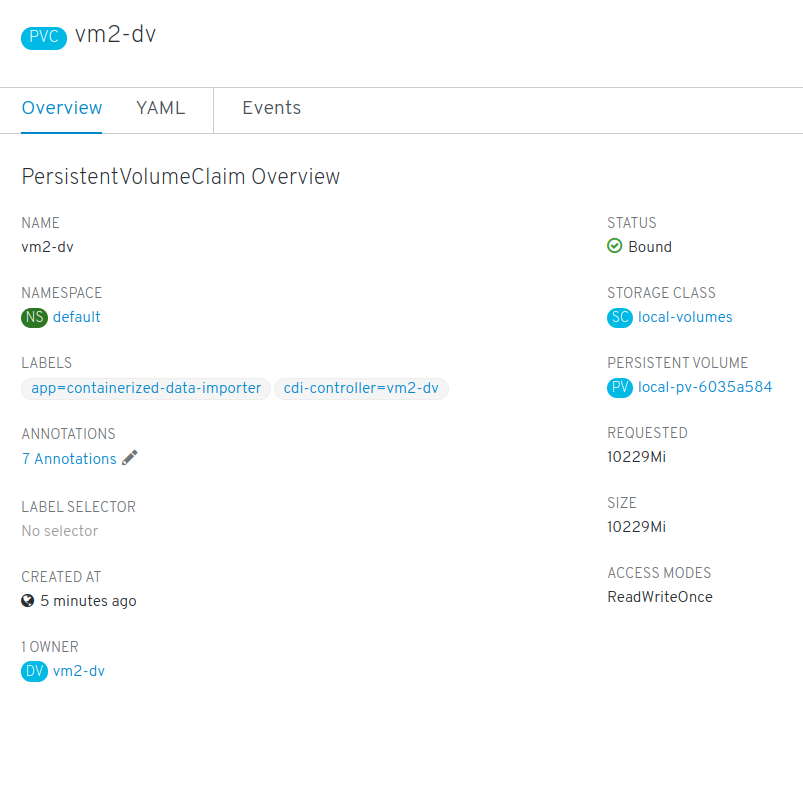
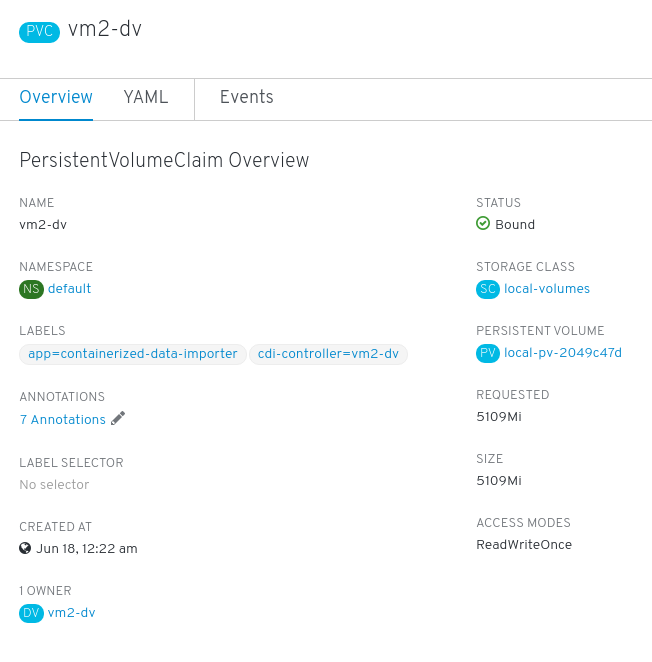
Continuing the review of labs
Minor grammar changes, header arrangement and example updates.

diff --git a/labs/lab5/lab5.md b/labs/lab5/lab5.md
@@ -1,21 +1,19 @@
-# Lab 5
+# Lab 5: Deploy a VM using a DataVolume
 
-## Deploy a VM using a DataVolume
-
-Explore the VM manifests, notice it uses a [DataVolume](https://kubevirt.io/user-guide/docs/latest/creating-virtual-machines/disks-and-volumes.html#datavolume)
+There is another VM definition that uses a [DataVolume](https://kubevirt.io/user-guide/docs/latest/creating-virtual-machines/disks-and-volumes.html#datavolume) instead of a ContainerDisk:
 
 ```console
 $ view ~/student-materials/vm_datavolume.yml
 ```
 
-Now let's start this VM and we'll observe the image importing process before the VMI is created:
+Now let's create this VM and we'll observe the image importing process before the VMI is created. **Note:** the image import is relatively fast and the importer pod terminates quickly, so be ready to watch the logs shortly after the VM creation or you will miss the opportunity:
 
 ```console
 $ cd ~/student-materials/
 $ kubectl create -f vm_datavolume.yaml
 virtualmachine.kubevirt.io/vm2 created
 
-$kubectl get pods | grep importer
+$ kubectl get pods | grep importer
 importer-vm2-dv-sgch7
 
 $ kubectl logs -f importer-vm2-dv-sgch7
@@ -38,7 +36,7 @@ I0517 14:44:04.317260       1 data-processor.go:230] Expanding image size to: 10
 I0517 14:44:04.373807       1 data-processor.go:167] New phase: Complete
 ```
 
-Again, we can connect to the VM's serial console and check if we've got that extra space that CDI made for us:
+Once the VM has started we can again connect to its serial console and check if we have the extra space that the Containerized Data Importer (CDI) made for us:
 
 ```console
 $ virtctl console vm2
@@ -46,7 +44,7 @@ Successfully connected to vm2 console. The escape sequence is ^]
 
 login as 'cirros' user. default password: 'gocubsgo'. use 'sudo' for root.
 cirros login: cirros
-Password:
+Password: gocubsgo
 $ df -h /
 Filesystem                Size      Used Available Use% Mounted on
 /dev/vda1                 4.8G     24.1M      4.6G   1% /
@@ -91,14 +89,15 @@ Status:
   Phase:     Succeeded
   Progress:  100.0%
 Events:
-  Type     Reason            Age                  From                   Message
-  ----     ------            ----                 ----                   -------
-  Normal   ImportScheduled   19m                  datavolume-controller  Import into vm2-dv scheduled
-  Normal   ImportInProgress  18m (x2 over 19m)    datavolume-controller  Import into vm2-dv in progress
-  Normal   Synced            8m3s (x24 over 19m)  datavolume-controller  DataVolume synced successfully
+  Type    Reason            Age                     From                   Message
+  ----    ------            ----                    ----                   -------
+  Normal  ImportScheduled   3m55s                   datavolume-controller  Import into vm2-dv scheduled
+  Normal  ImportInProgress  3m38s                   datavolume-controller  Import into vm2-dv in progress
+  Normal  Synced            3m13s (x16 over 3m55s)  datavolume-controller  DataVolume synced successfully
+  Normal  ImportSucceeded   3m13s                   datavolume-controller  Successfully imported into PVC vm2-dv
 ```
 
-The associated PVC has the same name, *vm2-dv*, let's describe it as well, it contains some interesting data:
+The associated Persistent Volume Claim (PVC) has the same name as the DataVolume, *vm2-dv*. Let's describe it as well, it contains some interesting data:
 
 ```console
 $ kubectl describe pvc vm2-dv
@@ -127,16 +126,16 @@ Events:
 Mounted By:  virt-launcher-vm2-92pm2
 ```
 
-Pay special attention to the *Annotations* section where CDI introduces interesting data like the endpoint where the image was imported from, the phase and pod name.
+Pay special attention to the *Annotations* section where CDI adds interesting metadata like the endpoint where the image was imported from, the phase and pod name.
 
 ## Recap
 
-* We've created a second VM, *vm2*, this one included a *DataVolume* template which instructs KubeVirt and CDI to:
-  * Create a PVC which uses a PV already created on the cluster
-  * The CDI importer pod, takes the source, in this case a URL, and imports the image directly to the PV attached to the PVC
-  * Once that process finishes, a *virt-launcher* pod starts using the same PVC, with the imported image, as boot disk
-* A detail that might go unnoticed, CDI is able to detect the requested storage size, the available space (accounting for file system overhead) and resize the image accordingly
-* We've connected to *vm2's* serial console and verified the root partition was expanded to the disk size, this is usually done through configuration services like *cloud-init*
+* We created a second VM, *vm2*. This one included a *DataVolume* template which instructs KubeVirt and CDI to:
+  * Create a PVC which uses a PV already created on the cluster.
+  * The CDI importer pod to take the source, in this case a URL, and import the image directly to the PV attached to the PVC.
+  * Once that process finishes, a *virt-launcher* pod starts using the same PVC, with the imported image, as its boot disk.
+* A detail that might go unnoticed: CDI is able to detect the requested storage size, the available space (accounting for file system overhead) and resize the image accordingly.
+* We connected to *vm2's* serial console and verified that the root partition was expanded to fill the underlying disk size. This is usually done through configuration services like *cloud-init*.
 
 This concludes this section of the lab, spend some time checking out all the objects and how they relate to each other, then head off to the next lab!
 

diff --git a/labs/lab4/lab4.md b/labs/lab4/lab4.md
@@ -1,8 +1,6 @@
-# Lab 4
+# Lab 4: Deploy your first Virtual Machine
 
-## Deploy our first Virtual Machine
-
-To start with, we'll be deploying a VM that uses a [ContainerDisk](https://kubevirt.io/user-guide/docs/latest/creating-virtual-machines/disks-and-volumes.html#containerdisk). It won't use any of the available PVs, ContainerDisk based VMs are ephemeral.
+We will deploy a VM that uses a [ContainerDisk](https://kubevirt.io/user-guide/docs/latest/creating-virtual-machines/disks-and-volumes.html#containerdisk). Therefore, the VM will not use any of the available Persistent Volumes (PVs), as ContainerDisk based storage is ephemeral.
 
 ```console
 $ cd ~/student-materials
@@ -11,7 +9,7 @@ $ kubectl create -f vm_containerdisk.yml
 virtualmachine.kubevirt.io/vm1 created
 ```
 
-Check for the VM we just created:
+Check the VM that we just created:
 
 ```console
 $ kubectl get vm vm1
@@ -19,7 +17,7 @@ NAME   AGE   RUNNING   VOLUME
 vm1    24s   false
 ```
 
-Notice it's not running, in the YAML definition we can find the following block:
+Notice it's not running. This is because in its YAML definition we can find the following:
 
 ```yaml
 ...
@@ -28,7 +26,9 @@ spec:
 ...
 ```
 
-The *VirtualMachine* object is the definition of our VM, but it's not instantiated, let's do so with *virtctl* as follows:
+## Start the Virtual Machine
+
+The *VirtualMachine* object is the definition of our VM, but a running VM is represented by a *VirtualMachineInstance*. Our VM is not instantiated yet, let's do so using *virtctl* as follows:
 
 ```console
 $ virtctl start vm1
@@ -55,7 +55,7 @@ vm1    19m   true
 
 $ kubectl get vmi vm1
 NAME   AGE     PHASE     IP            NODENAME
-vm1    3m49s   Running   10.244.0.22   sjr-kubemaster.deshome.net
+vm1    3m49s   Running   10.244.0.22   kubevirtlab-2
 ```
 
 Using *virtctl* we can connect to the VMI's console as follows:
@@ -70,13 +70,13 @@ Kernel 4.18.16-300.fc29.x86_64 on an x86_64 (ttyS0)
 vm1 login: fedora
 Password: fedora
 
-[fedora@vm1 ~]$ ping -c 1 google.com
-PING google.com (172.217.16.238) 56(84) bytes of data.
-64 bytes from mad08s04-in-f14.1e100.net (172.217.16.238): icmp_seq=1 ttl=54 time=22.1 ms
+[fedora@vm1 ~]$ ping -c 1 kubevirt.io
+PING kubevirt.io (185.199.111.153) 56(84) bytes of data.
+64 bytes from 185.199.111.153 (185.199.111.153): icmp_seq=1 ttl=54 time=5.30 ms
 
---- google.com ping statistics ---
+--- kubevirt.io ping statistics ---
 1 packets transmitted, 1 received, 0% packet loss, time 0ms
-rtt min/avg/max/mdev = 22.098/22.098/22.098/0.000 ms
+rtt min/avg/max/mdev = 5.303/5.303/5.303/0.000 ms
 [fedora@vm1 ~]$ exit
 
 Fedora 29 (Cloud Edition)
@@ -84,17 +84,23 @@ Kernel 4.18.16-300.fc29.x86_64 on an x86_64 (ttyS0)
 
 vm1 login:
 ```
-There is also a graphical console for connecting to the VMs, using the *vnc* subcommand instead of *console*. Note that it requires you to have *remote-viewer* installed and it's out of the scope of this lab.
-
 
 **NOTE**: To exit the console press *Ctrl+]*
 
+There is also a graphical console to connect to the VMs, using *virtctl vnc* instead of *virtctl console*. This requires you to have a VNC client like *remote-viewer* installed on your system. In this lab we are executing *virtctl* remotely on the lab instance, and therefore we can't use this option. Instead, we will access a VM's graphical console in a later lab through the web UI.
+
+### Exercise
+
+Can you operate on the VM and VMI objects using standard *kubectl* commands without relying on *virtctl*?
+
+In particular, can you start or stop a VM without *virtctl*?
+
 ## Recap
 
-* We've defined a *VirtualMachine* object on the cluster which didn't actually instantiate the *vm1*
-* We've started the *vm1* using *virtctl*, which instantiated it creating the *VirtualMachineInstance* object
+* We defined a *VirtualMachine* object on the cluster. This didn't actually instantiate the *vm1* VM.
+* We started the *vm1* using *virtctl*, which instantiated it creating the *VirtualMachineInstance* object
   * *kubectl patch* could have also been used to start *vm1*
-* Finally, we've connected to the *vm1's* serial console using *virtctl*
+* Finally, we connected to the *vm1's* serial console using *virtctl*
 
 
 This concludes this section of the lab, before heading off to the next lab, spend some time describing and exploring the objects this lab created on the cluster.

diff --git a/labs/lab6/lab6.md b/labs/lab6/lab6.md
@@ -1,10 +1,8 @@
-# Lab 6
+# Lab 6: Install and explore the KubeVirt Web UI
 
-## Install and explore the KubeVirt Web UI
+## Install the KubeVirt Web UI
 
-### Installing the KubeVirt Web UI
-
-In this lab we're going to deploy KubeVirt's web UI, which eases the VM management.
+In this lab we are going to deploy KubeVirt's web UI, which eases the management of VMs.
 
 ```console
 $ cd ~/kubevirt/kubevirt-ui-custom-manifests
@@ -28,9 +26,9 @@ NAME                      TYPE       CLUSTER-IP     EXTERNAL-IP   PORT(S)       
 service/kubevirt-web-ui   NodePort   10.96.35.132   <none>        9000:30000/TCP   78m
 ```
 
-**NOTE**: Take a look to the kubevirt-web-ui service, the UI should be available on your node's assigned hostname at port 30000.
+**NOTE**: take a look at the kubevirt-web-ui service, the UI should be available on your node's assigned hostname at port 30000.
 
-### Exploring the KubeVirt UI
+## Explore the KubeVirt UI
 
 Using your browser, head to *http://<your_gcp_instance_hostname>:30000* and you'll be greeted by an status page showing the health of the cluster and a stream of events.
 
@@ -48,17 +46,17 @@ Click now on the *actions* button, it will present you with few options:
 
 ![VM actions](images/kwebui-04.png)
 
-You can interact with the VM from the UI as well, the *Migrate* action available is not really useful for this lab as we are running a single node cluster, but clicking it on a multi-node cluster would trigger a live migration of the VM.
+You can interact with the VM from the UI as well. The *Migrate Virtual Machine* action is not really available for this lab because we are running on a single node cluster (so we can't migrate a VM from one node to another), but clicking it on a multi-node cluster would trigger a live migration of the VM.
 
-Now let's get back clicking on *Workloads*, *VirtualMachines* and review the details for *vm2*, take a close look to its disks:
+Now let's get back clicking on *Workloads*, *VirtualMachines* and review the details for *vm2*. Take a closer look to its disks by clicking on the *Disks* tab:
 
 ![VM2 storage details](images/kwebui-05.png)
 
-To have more details, go to the *Storage* section and click on *Persistent Volume Claims*, we'll be presented with the summary of *PVCs* on the cluster, most likely one, *vm2-dv*, open it up:
+To see even more details, go to the *Storage* section and click on *Persistent Volume Claims*. There you will see a summary of *PVCs* on the selected namespace, and *vm2-dv* should be listed there. Click on it to see its details:
 
 ![vm2-dv details](images/kwebui-06.png)
 
-Here we can see its owner, the *DataVolume vm2-dv* and the physical volume attached to this claim, the *local-pv-6035a584* *PV*.
+Here we can see that the PVC has an owner, the *vm2-dv* *DataVolume*, and that the PVC is attached to a Persistent Volume attached to this claim (in this case the *local-pv-2049c47d* *PV*).
 
 ## Recap
 

diff --git a/labs/lab7/lab7.md b/labs/lab7/lab7.md
@@ -1,8 +1,9 @@
-# Lab 7
+# Lab 7: Using the Kubevirt UI to interact with VMs
 
-**DISCLAIMER:** The WebUI is fully functional on Openshift, but not yet in Kubernetes (we are working on it! :D). If you try to spin up a VM using the wizard, the namespaces will not be shown, don't worry about that, just continue with the labs avoiding this part.
-
-## Using the Kubevirt UI to interact with VMs
+> **NOTE:** at the time of this writing, the WebUI is fully functional on
+> OpenShift but not yet in Kubernetes (we are working on it! :D). In Kubernetes
+> if you try to spin up a VM using the *wizard* the namespaces will not be
+> shown; don't worry about that, just continue with the labs avoiding that part.
 
 In this section, we will install and interact with VMs using KubeVirt's dedicated UI.
 
@@ -14,9 +15,9 @@ You can then access it at `http://kubevirtlab-<number>.<domain>:30000` and use i
 
 ![kubevirt-ui](images/ui.png)
 
-### Using the KubeVirt web UI 
+## Using the KubeVirt web UI 
 
-#### Create a Virtual Machine
+### Create a Virtual Machine
 
 Click the `Create Virtual Machine` drop-down and select `Create with Wizard`
 
@@ -38,7 +39,7 @@ In the `Basic Settings` configure with the following
 
 Click `Next >` until result and finish.
 
-#### Controlling the State of the VM
+### Controlling the State of the VM
 
 To start the virtual machine click the cog and select `Start Virtual Machine`.
 
@@ -46,7 +47,7 @@ To start the virtual machine click the cog and select `Start Virtual Machine`.
 
 Now click the virtual machine link `vm3`
 
-#### Virtual Machine Overview and Console
+### Virtual Machine Overview and Console
 
 ![overview](images/overview.png)
 
@@ -54,7 +55,7 @@ Click *Consoles* to view graphical (VNC) console.
 
 ![overview](images/vm_console.png)
 
-#### Associated Pods
+### Associated Pods
 
 Clicking `Pods` will show the currently running pods for this namespace.
 

diff --git a/labs/lab2/lab2.md b/labs/lab2/lab2.md
@@ -1,6 +1,4 @@
-# Lab 2
-
-## Review Kubernetes environment
+# Lab 2: Review the Kubernetes environment
 
 For the sake of time, some of the required setup has already been taken care of. The following steps wer performed as part of the instance preparation:
 
@@ -16,7 +14,7 @@ For the sake of time, some of the required setup has already been taken care of.
   * [Grafana](https://grafana.com)
 * Resource manifests to interact with KubeVirt components have been copied over to your *$HOME/student-materials*
 
-### Verify the cluster
+## Verify the cluster
 
 Let's ask the cluster for its status:
 
@@ -27,7 +25,7 @@ Client Version: version.Info{Major:"1", Minor:"14", GitVersion:"v1.14.3", GitCom
 Server Version: version.Info{Major:"1", Minor:"14", GitVersion:"v1.14.3", GitCommit:"5e53fd6bc17c0dec8434817e69b04a25d8ae0ff0", GitTreeState:"clean", BuildDate:"2019-06-06T01:36:19Z", GoVersion:"go1.12.5", Compiler:"gc", Platform:"linux/amd64"}
 ```
 
-Now let's check that the physical volumes are ready and available:
+Now let's check that persistent volumes are ready and available:
 
 ```console
 $ kubectl get pv

diff --git a/labs/lab3/lab3.md b/labs/lab3/lab3.md
@@ -1,6 +1,4 @@
-# Lab 3
-
-## Deploy KubeVirt/CDI/UI
+# Lab 3: Deploy KubeVirt/CDI/UI
 
 In this section we're going to deploy the following three components:
 
@@ -68,7 +66,13 @@ $ virtctl version
 Client Version: version.Info{GitVersion:"v0.17.0", GitCommit:"c0f960702dce718419a767f3913669f539229ff0", GitTreeState:"clean", BuildDate:"2019-05-05T08:09:14Z", GoVersion:"go1.11.5", Compiler:"gc", Platform:"linux/amd64"}
 Server Version: version.Info{GitVersion:"v0.17.0", GitCommit:"a067696ed6c25b0eab9dfcd01bbdc045f500f8ca", GitTreeState:"clean", BuildDate:"2019-05-06T14:58:11Z", GoVersion:"go1.11.5", Compiler:"gc", Platform:"linux/amd64"}
 ```
+### Exercise
 
+Check that a few new Custom Resource Definitions (CRDs) are now available in the cluster.
+
+What are these? What is their purpose? How do they look like?
+
+Do you see any instance of any of these Custom Resources?
 
 ## Install the CDI operator
 

diff --git a/labs/lab1/lab1.md b/labs/lab1/lab1.md
@@ -1,10 +1,8 @@
-# Lab 1
-
-## Student Connection Process
+# Lab 1: Student Connection Process
 
 In this section, we'll review how to connect to your instance.
 
-### Find your GCP Instance
+## Find your GCP Instance
 
 This lab is designed to accommodate several students. Each student will be provided with a cloud instance running on GCP with nested virtualization, 4 vcpus and 16GiB of RAM. No GCP knowledge is required for this lab.
 
@@ -18,7 +16,7 @@ $ chmod 600 kubevirt-tutorial
 $ ssh-add kubevirt-tutorial
 ```
 
-### Connecting to your Instance
+## Connecting to your Instance
 
 This lab should be performed on **YOUR ASSIGNED INSTANCE** only, as the *kubevirt* user, unless otherwise instructed.
 

diff --git a/labs/lab0/lab0.md b/labs/lab0/lab0.md
@@ -1,6 +1,4 @@
-# Lab 0
-
-## Lab Overview
+# Lab 0: Overview
 
 This lab is targeted towards people who don’t have any KubeVirt experience.
 
